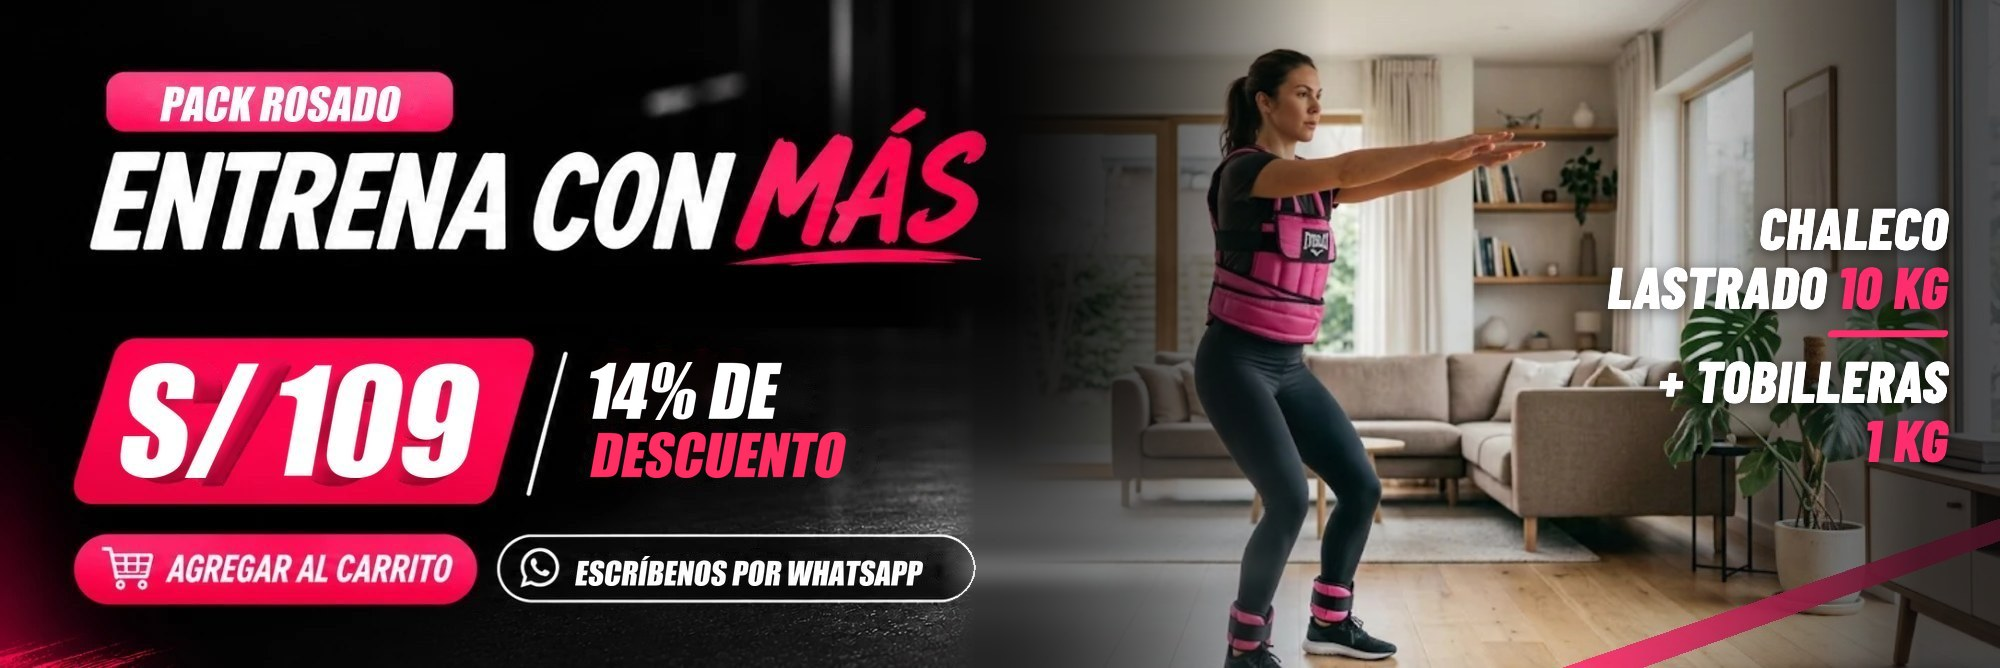
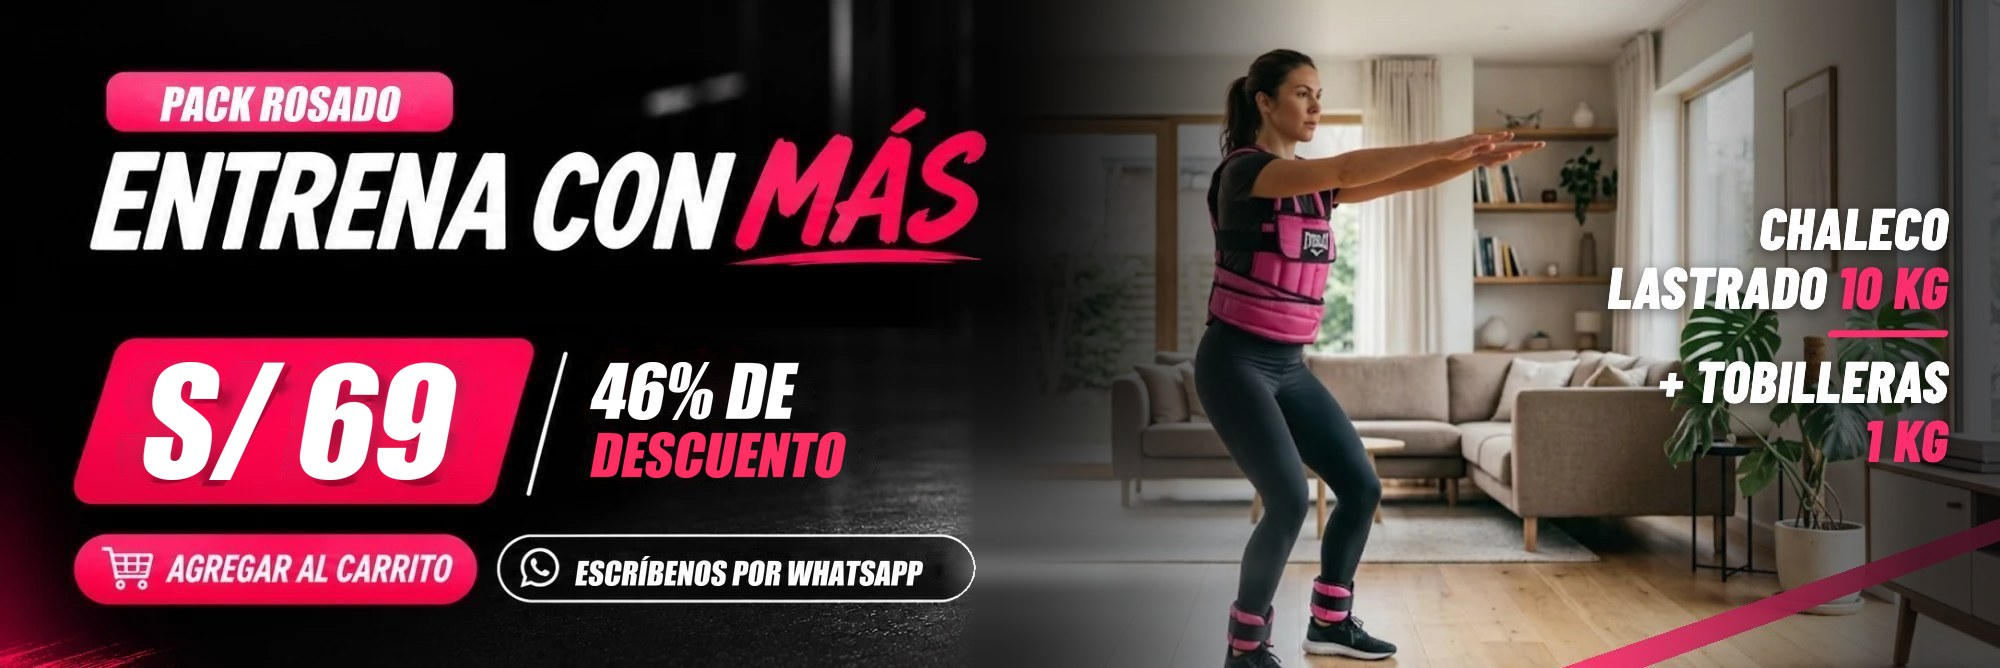
Put the 10 kg vest + 1 kg ankle weights pack back at S/ 69 (46% off)

Changed region(s): [[0.062, 0.5389, 0.248, 0.7186], [0.279, 0.5389, 0.403, 0.6287]]

diff --git a/public/index.html b/public/index.html
@@ -12,8 +12,8 @@
 <meta property="og:title" content="TRENO Perú | Pesas, mats y equipamiento para entrenar en casa">
 <meta property="og:description" content="Pesas rusas, mancuernas, mats, bandas y accesorios. Delivery a todo el Perú.">
 <meta property="og:url" content="https://trenoperu.vercel.app/">
-<meta property="og:image" content="https://trenoperu.vercel.app/assets/img/banner-pack.jpg?v=6">
-<script type="application/ld+json">{"@context":"https://schema.org","@type":"Store","name":"TRENO Perú","url":"https://trenoperu.vercel.app/","logo":"https://trenoperu.vercel.app/assets/img/logo-treno.png","image":"https://trenoperu.vercel.app/assets/img/banner-pack.jpg?v=6","telephone":"+51957503022","priceRange":"S/","areaServed":"PE","sameAs":["https://www.instagram.com/treno_peru","https://www.facebook.com/treno.peru"]}</script>
+<meta property="og:image" content="https://trenoperu.vercel.app/assets/img/banner-pack.jpg?v=7">
+<script type="application/ld+json">{"@context":"https://schema.org","@type":"Store","name":"TRENO Perú","url":"https://trenoperu.vercel.app/","logo":"https://trenoperu.vercel.app/assets/img/logo-treno.png","image":"https://trenoperu.vercel.app/assets/img/banner-pack.jpg?v=7","telephone":"+51957503022","priceRange":"S/","areaServed":"PE","sameAs":["https://www.instagram.com/treno_peru","https://www.facebook.com/treno.peru"]}</script>
 <link rel="preconnect" href="https://fonts.googleapis.com">
 <link href="https://fonts.googleapis.com/css2?family=Barlow+Condensed:ital,wght@0,600;0,700;0,800;1,800&amp;family=Inter:wght@400;500;600;700&amp;display=swap" rel="stylesheet">
 <link rel="icon" type="image/png" href="assets/img/favicon.png">
@@ -57,21 +57,21 @@
       <div class="hero__viewport">
         <div id="hero-track" class="hero__track" aria-live="off">
           <div class="hero__banner hero__slide" data-pack="PACKCH" role="group" aria-roledescription="diapositiva">
-            <img src="assets/img/banner-pack.jpg?v=6" width="2000" height="668" alt="Pack completo, entrena con más: hombre haciendo zancadas en el parque con el chaleco lastrado negro y tobilleras. Chaleco de 10 kg y tobilleras de 1 kg a S/ 109. 14% de descuento.">
+            <img src="assets/img/banner-pack.jpg?v=7" width="2000" height="668" alt="Pack completo, entrena con más: hombre haciendo zancadas en el parque con el chaleco lastrado negro y tobilleras. Chaleco de 10 kg y tobilleras de 1 kg a S/ 69. 46% de descuento.">
             <div class="hero__actions">
               <button class="hero__action hero__action--cart" type="button" data-pack-add="PACKCH" disabled>Agregar al carrito</button>
               <a class="hero__action hero__action--whatsapp" href="https://wa.me/51957503022?text=M%C3%81S" target="_blank" rel="noopener">Escríbenos “MÁS” por WhatsApp</a>
             </div>
           </div>
           <div class="hero__banner hero__slide" data-pack="PACKCH" data-pack-slide="rosado" role="group" aria-roledescription="diapositiva">
-            <img src="assets/img/banner-pack-rosado.jpg?v=6" width="2000" height="668" alt="Pack rosado, entrena con más: mujer haciendo sentadillas en casa con el chaleco lastrado y las tobilleras rosadas. Chaleco de 10 kg y tobilleras de 1 kg a S/ 109. 14% de descuento." loading="lazy">
+            <img src="assets/img/banner-pack-rosado.jpg?v=7" width="2000" height="668" alt="Pack rosado, entrena con más: mujer haciendo sentadillas en casa con el chaleco lastrado y las tobilleras rosadas. Chaleco de 10 kg y tobilleras de 1 kg a S/ 69. 46% de descuento." loading="lazy">
             <div class="hero__actions">
               <button class="hero__action hero__action--cart" type="button" data-pack-add="PACKCH" data-pack-color="rosado" disabled>Agregar al carrito</button>
               <a class="hero__action hero__action--whatsapp" href="https://wa.me/51957503022?text=Hola%2C%20quiero%20el%20pack%20rosado%20chaleco%2010%20kg%20%2B%20tobilleras%201%20kg" target="_blank" rel="noopener">Escríbenos por WhatsApp</a>
             </div>
           </div>
           <div class="hero__banner hero__slide" data-pack="PACKPE" role="group" aria-roledescription="diapositiva">
-            <img src="assets/img/banner-pack-pesa.jpg?v=6" width="2000" height="668" alt="Pack completo, entrena con más: hombre con chaleco lastrado haciendo swing con pesa rusa en el parque. Chaleco de 10 kg y pesa rusa de 4 kg a S/ 119. Paga fácil con Yape." loading="lazy">
+            <img src="assets/img/banner-pack-pesa.jpg?v=7" width="2000" height="668" alt="Pack completo, entrena con más: hombre con chaleco lastrado haciendo swing con pesa rusa en el parque. Chaleco de 10 kg y pesa rusa de 4 kg a S/ 119. Paga fácil con Yape." loading="lazy">
             <div class="hero__actions">
               <button class="hero__action hero__action--cart" type="button" data-pack-add="PACKPE" disabled>Agregar al carrito</button>
               <a class="hero__action hero__action--whatsapp" href="https://wa.me/51957503022?text=Hola%2C%20quiero%20el%20pack%20chaleco%2010%20kg%20%2B%20pesa%20rusa%204%20kg" target="_blank" rel="noopener">Escríbenos por WhatsApp</a>
@@ -280,7 +280,7 @@
         <span class="popup__tag">Pack completo</span>
         <strong id="popup-title" class="popup__title">Entrena con <span>más</span></strong>
         <span class="popup__sub">Chaleco lastrado 10 kg + tobilleras 1 kg</span>
-        <span class="popup__row"><span id="popup-price" class="popup__price">S/ 109</span><span class="popup__cta">Ver producto</span></span>
+        <span class="popup__row"><span id="popup-price" class="popup__price">S/ 69</span><span class="popup__cta">Ver producto</span></span>
       </span>
     </a>
   </dialog>
